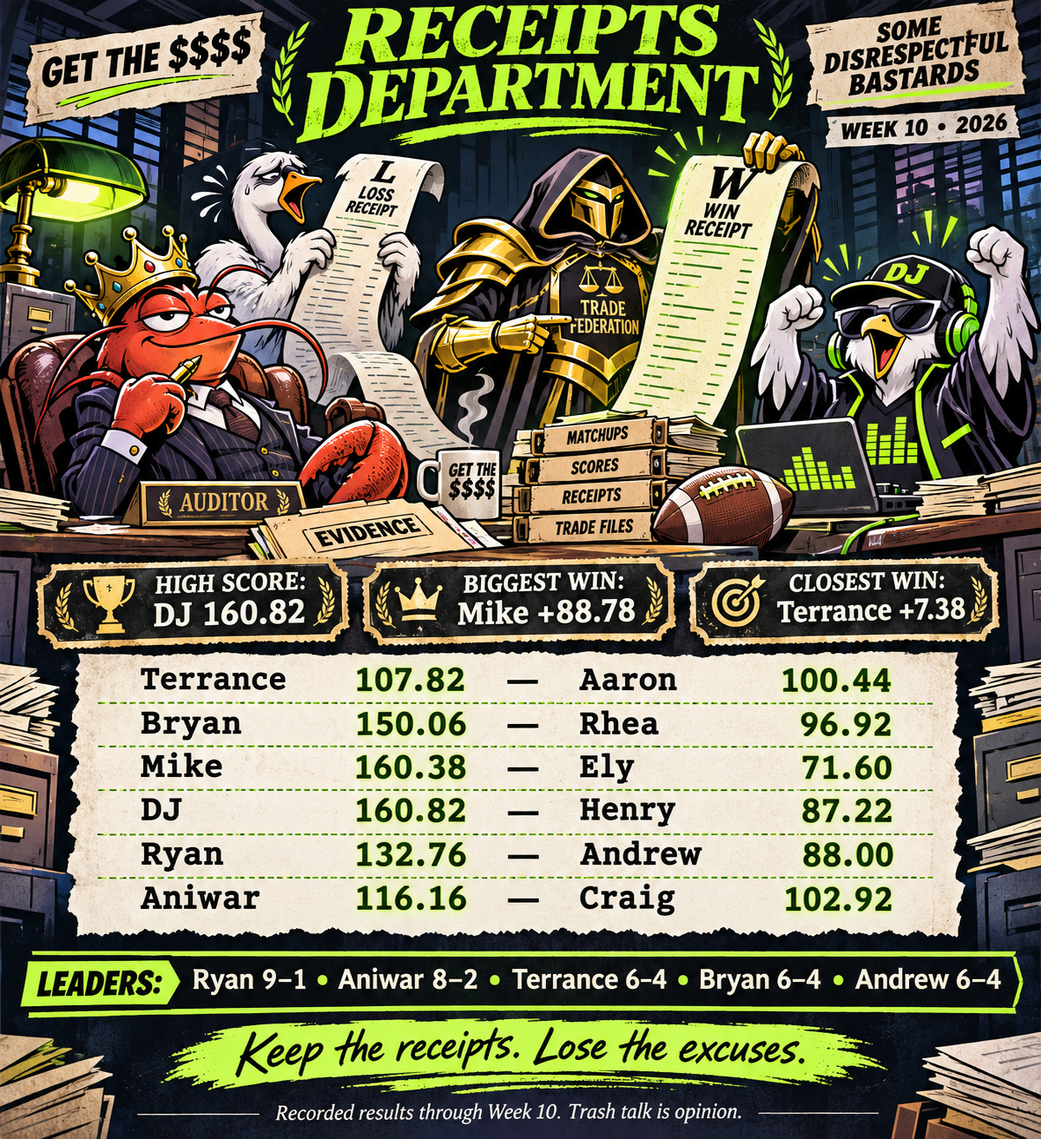
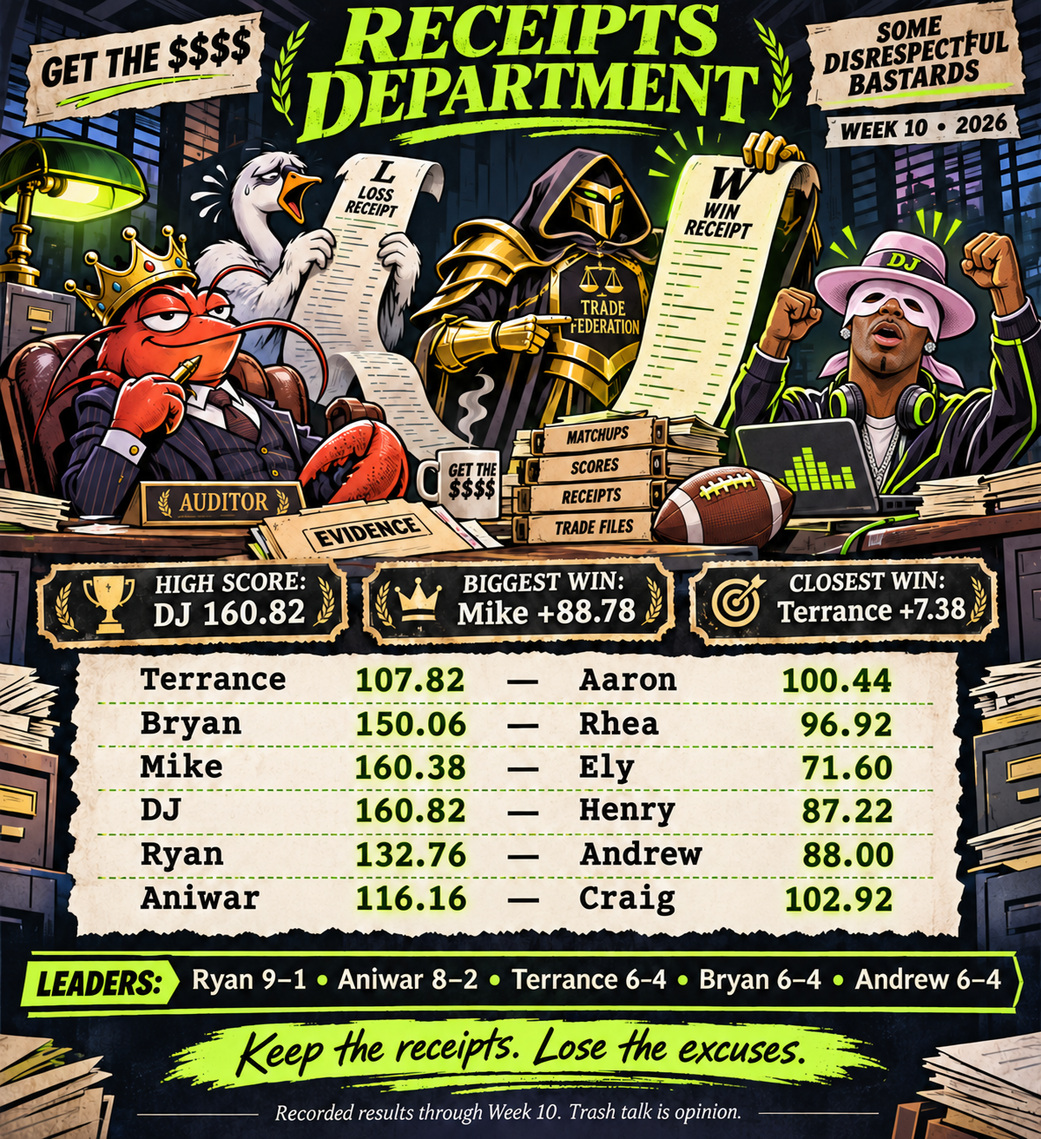
Update DJ likeness in Week 10 illustrated edition

diff --git a/recaps.html b/recaps.html
@@ -6,7 +6,7 @@
   <meta name="description" content="Weekly results, illustrated editions, power rankings, and transaction receipts from GET THE $$$$.">
   <meta property="og:title" content="GET THE $$$$ · Weekly Recaps">
   <meta property="og:description" content="Week 10 · Receipts Department. The scores. The stories. The evidence.">
-  <meta property="og:image" content="https://get-the-money-league.pages.dev/recap-week-10-2026.png">
+  <meta property="og:image" content="https://get-the-money-league.pages.dev/recap-week-10-2026.png?v=dj-mask-20261117">
   <meta property="og:type" content="website">
   <style>
     body { margin:0; background:#101820; color:#f4f6f8; font:16px/1.65 system-ui,sans-serif; }
@@ -59,7 +59,7 @@
   <p class="subtext">The scores. The stories. The evidence. Written recaps and illustrated covers, together.</p>
   <p id="load-status" class="subtext" role="status">Loading saved recaps…</p>
   <!-- SAVED-EDITION-START -->
-<section id="saved-recap-fallback"><p class="eyebrow">2026 · Week 10 · Saved written edition</p><h2>Receipts Department</h2><p>DJ Searcy posted the week&#x27;s high score of 160.82. The closest matchup finished with a 7.38-point margin; the biggest margin was 88.78.</p><p class="subtext">Workbook updated 2026-11-17 06:21 CST. Interactive selectors become available when the page scripts load.</p><h2>Weekly awards</h2><div class="scroll"><table><thead><tr><th scope="col">Award</th><th scope="col">Manager</th><th scope="col">Points</th><th scope="col">Details</th></tr></thead><tbody><tr><td>Best Manager 🔥</td><td>Henry Omehe</td><td>87.22</td><td>Henry started the perfect possible lineup: 87.22 points, as reported by Sleeper.</td></tr><tr><td>Worst Manager 🤔</td><td>Rhea Nelson</td><td>96.92</td><td>Rhea scored 77% of a perfect possible lineup of 126.10 points, as reported by Sleeper.</td></tr><tr><td>Biggest Blowout 😂</td><td>Mike Taylor</td><td>160.38</td><td>Mike beat Ely 160.38–71.60: 88.78 points, or 124.0% of the losing score.</td></tr><tr><td>Narrow Victory 😱</td><td>Terrance Green</td><td>107.82</td><td>Terrance beat Aaron 107.82–100.44: 7.38 points, or 7.3% of the losing score.</td></tr><tr><td>Highest Scorer 😎</td><td>DJ Searcy</td><td>160.82</td><td>DJ posted the highest team score of the week.</td></tr><tr><td>Lowest Scorer 💩</td><td>Ely Ibrahim</td><td>71.60</td><td>Ely posted the lowest team score of the week.</td></tr><tr><td>Overachiever 🤓</td><td>DJ Searcy</td><td>160.82</td><td>DJ exceeded Sleeper’s 89.35-point projection by 80% (+71.47 points).</td></tr><tr><td>Below Expectation 💀</td><td>Ely Ibrahim</td><td>71.60</td><td>Ely finished 32% below Sleeper’s 105.45-point projection (−33.85 points).</td></tr><tr><td>QB of the Week ⭐</td><td>Craig Lyons</td><td>45.42</td><td>Patrick Mahomes</td></tr><tr><td>RB of the Week ⭐</td><td>Henry Omehe</td><td>44.30</td><td>Christian McCaffrey</td></tr><tr><td>WR of the Week ⭐</td><td>DJ Searcy</td><td>38.00</td><td>George Pickens</td></tr><tr><td>TE of the Week ⭐</td><td>Mike Taylor</td><td>23.20</td><td>Isaiah Likely</td></tr><tr><td>DEF of the Week ⭐</td><td>Mike Taylor</td><td>24.00</td><td>Minnesota Vikings</td></tr><tr><td>QB Benchwarmer of the Week 👀</td><td>Craig Lyons</td><td>25.44</td><td>C.J. Stroud</td></tr><tr><td>RB Benchwarmer of the Week 👀</td><td>Rhea Nelson</td><td>19.40</td><td>Blake Corum</td></tr><tr><td>WR Benchwarmer of the Week 👀</td><td>Mike Taylor</td><td>13.86</td><td>Malik Washington</td></tr><tr><td>TE Benchwarmer of the Week 👀</td><td>Ely Ibrahim</td><td>3.80</td><td>Juwan Johnson</td></tr><tr><td>DEF Benchwarmer of the Week 👀</td><td>DJ Searcy</td><td>1.00</td><td>Dallas Cowboys</td></tr></tbody></table></div><h2>The scoreboard</h2><div class="scroll"><table><thead><tr><th scope="col">Manager</th><th scope="col">Score</th><th scope="col">Opponent</th><th scope="col">Score</th></tr></thead><tbody><tr><td>Terrance Green</td><td>107.82</td><td>Aaron Blank</td><td>100.44</td></tr><tr><td>Bryan Norman</td><td>150.06</td><td>Rhea Nelson</td><td>96.92</td></tr><tr><td>Mike Taylor</td><td>160.38</td><td>Ely Ibrahim</td><td>71.60</td></tr><tr><td>Henry Omehe</td><td>87.22</td><td>DJ Searcy</td><td>160.82</td></tr><tr><td>Ryan Nelson</td><td>132.76</td><td>Andrew Swanson</td><td>88.00</td></tr><tr><td>Craig Lyons</td><td>102.92</td><td>Aniwar Ibrahim</td><td>116.16</td></tr></tbody></table></div><h2>Standings watch</h2><div class="scroll"><table><thead><tr><th scope="col">Position</th><th scope="col">Manager</th><th scope="col">Record</th><th scope="col">Points For</th><th scope="col">Points Against</th></tr></thead><tbody><tr><td>1</td><td>Ryan Nelson</td><td>9–1–0</td><td>1272.10</td><td>973.04</td></tr><tr><td>2</td><td>Aniwar Ibrahim</td><td>8–2–0</td><td>1158.58</td><td>1013.82</td></tr><tr><td>3</td><td>Terrance Green</td><td>6–4–0</td><td>1106.76</td><td>1134.60</td></tr><tr><td>4</td><td>Bryan Norman</td><td>6–4–0</td><td>1105.50</td><td>1054.88</td></tr><tr><td>5</td><td>Andrew Swanson</td><td>6–4–0</td><td>1019.98</td><td>958.52</td></tr><tr><td>6</td><td>Mike Taylor</td><td>5–5–0</td><td>1235.88</td><td>1072.68</td></tr><tr><td>7</td><td>Aaron Blank</td><td>5–5–0</td><td>1091.22</td><td>1142.60</td></tr><tr><td>8</td><td>Rhea Nelson</td><td>4–6–0</td><td>1103.48</td><td>1259.78</td></tr><tr><td>9</td><td>DJ Searcy</td><td>4–6–0</td><td>955.74</td><td>1083.36</td></tr><tr><td>10</td><td>Henry Omehe</td><td>3–7–0</td><td>971.92</td><td>1076.92</td></tr><tr><td>11</td><td>Craig Lyons</td><td>2–8–0</td><td>1041.76</td><td>1180.30</td></tr><tr><td>12</td><td>Ely Ibrahim</td><td>2–8–0</td><td>1018.48</td><td>1130.90</td></tr></tbody></table></div><h2>Illustrated edition</h2><p class="subtext">Illustrated editions began with Week 7 of 2026.</p><figure><a href="./recap-week-10-2026.png"><img style="max-width:600px;width:100%;height:auto" src="./recap-week-10-2026.png" alt="Week 10 Receipts Department illustrated recap: league mascots in a sports auditing office, six verified matchups, DJ’s 160.82 high score, Mike’s 88.78-point biggest win, and Terrance’s 7.38-point closest win." loading="lazy"></a></figure><h2>Disrespectful Power Rankings</h2><p class="subtext">The Group Chat Edition · Ranked by season strength + recent form. Rankings are editorial, not official standings. Adapted from the supplied weekly write-up; statistics checked against the saved workbook recap.</p><div class="banter"><article><h3>01 · 400 DEGREEZ</h3><p><strong>THE LEAGUE LANDLORD</strong></p><p>Nine wins, five straight, and the most points in the league. Everybody else is managing a fantasy team; 400 DEGREEZ is collecting rent. At this point, your matchup notification is an eviction notice. The only thing colder than the competition is that 973.04 points-against total. Great team, comfortable schedule, and absolutely no reason to be humble. If this ends without a championship, the group chat is going to turn that 9-1 screenshot into a missing-person poster.</p></article><article><h3>02 · W&#x27;s in spite of Marv</h3><p><strong>MARV STILL GETS NO CREDIT</strong></p><p>Eight wins and three straight, yet the team name still sounds like an ongoing HR complaint. You beat Run CMC 116.16–102.92, which means the group chat has to tolerate another week of your victory lap. Second place is respectable, but 400 DEGREEZ is upstairs making noise and you still haven&#x27;t knocked on the door. Keep stacking wins. Marv is apparently the only person in the organization who isn&#x27;t getting a performance bonus.</p></article><article><h3>03 · The Trade Federation 🏆🏆</h3><p><strong>A .500 TEAM WITH CHAMPAGNE TASTE</strong></p><p>Second-most season points, a 160.38-point week, and somehow still sitting at 5-5. This is a luxury vehicle with the check-engine light permanently on. You destroyed Bi-Polar Boyz by 88.78, but beating that team right now is like winning a boxing match against a coat rack. The two trophies in the name are doing heavy public-relations work. Still, this offense earns the jump to No. 3. Nobody wants you in the playoffs, assuming you remember to qualify.</p></article><article><h3>04 · The Struggle is Real</h3><p><strong>THE STRUGGLE TOOK PTO</strong></p><p>A 150.06-point week is a terrible way to stay committed to the brand. You can&#x27;t keep calling it a struggle while handing out this much punishment. At 6-4, you&#x27;re finally looking like a problem instead of somebody explaining why the projections were wrong. One big week doesn&#x27;t make you royalty, but it does move you ahead of teams surviving on close calls and good fortune. For once, the only people struggling were the ones trying to keep up.</p></article><article><h3>05 · GreenMamba</h3><p><strong>THE GARDEN HOSE WITH FANGS</strong></p><p>Two straight wins, but this week&#x27;s venom was apparently watered down. Lowest score in a win and narrowest victory: two receipts that collectively mean &#x27;thank God for the opponent.&#x27; You edged Pukakke by 7.38 and walked out like you had conquered an empire. At 6-4, you&#x27;re dangerous enough to matter, but 1,134.60 points against versus 1,106.76 scored suggests the snake has been getting stepped on almost as often as it bites.</p></article><article><h3>06 · Son of a Swan</h3><p><strong>THE SWAN DIVE</strong></p><p>Two straight losses and an 88-point week. That isn&#x27;t graceful movement; that&#x27;s a bird hitting a sliding-glass door. Your 6-4 record looks solid until we notice the league-low 958.52 points against. Opponents have been treating your schedule like a wellness retreat, and you&#x27;re still finding ways to lose. You have the record of a contender and the scoring output of somebody who drafts based on commercials. The cushion is shrinking. Start flapping.</p></article><article><h3>07 · Free R Kelly</h3><p><strong>ONE WEEK OF WITNESS PROTECTION</strong></p><p>League-high 160.82 and a 73.60-point win. For one week, this roster looked like it had stolen the answer key. Suddenly the team with the fewest season points wants a seat at the grown-ups&#x27; table. Here&#x27;s the problem: 160.82 of your 955.74 points arrived this week. We respect the eruption, but one good Sunday doesn&#x27;t erase nine weeks of loading-screen football. Do it again before printing playoff shirts.</p></article><article><h3>08 · Pukakke</h3><p><strong>THE HUMAN COIN FLIP</strong></p><p>Five wins, five losses, and a Week 10 performance that barely cleared the century mark. You lost to the lowest-scoring winner, which is fantasy football&#x27;s version of getting fired on your day off. GreenMamba scored 107.82 and still sent you home. Your team name makes an entrance; your roster quietly asks where to park. At .500, you&#x27;re neither scary nor safely eliminated. You&#x27;re just standing in the playoff doorway making everybody walk around you.</p></article><article><h3>09 · Catalina Wine Mixer</h3><p><strong>ALL WINE, NO MIXER</strong></p><p>A 96.92-point week while The Struggle is Real dropped 150.06. Your starters hosted a networking event for disappointment. To be fair, opponents have dumped a league-high 1,259.78 on you. That&#x27;s brutal luck. But this week&#x27;s 53.14-point loss was not exactly a photo finish. You&#x27;re getting jumped outside and then coming home to trip over your own furniture. At 4-6, the wine needs to become a lot stronger.</p></article><article><h3>10 · The Hurts Locker</h3><p><strong>PERFECTLY ORGANIZED DISASTER</strong></p><p>An 87.22-point week, a 73.60-point loss, and a front-row seat to DJ&#x27;s 160.82 eruption. Four straight losses, 3-7, and the group chat has run out of sympathetic emojis. This is a beautifully organized garage sale where every item is broken. The Hurts Locker is living up to the name with a level of commitment nobody asked for. Congratulations on squeezing every last drop out of an empty bottle.</p></article><article><h3>11 · Run CMC</h3><p><strong>RUN CMC, WALK HOME</strong></p><p>You scored 102.92 and still lost by 13.24. Highest points in a loss sounds nicer than &#x27;best seat on the sinking ship.&#x27; The rest of the league gets a win column; you get a participation receipt. At 2-8, even a triple-digit week comes with a return label. The team name says Run CMC, but this playoff chase is moving like people who wandered onto the field looking for parking validation.</p></article><article><h3>12 · Bi-Polar Boyz</h3><p><strong>SAME OLD PAIN</strong></p><p>Six straight losses. Seventy-one point six. An 88.78-point beating. The Trade Federation could have spotted you 80 and still won. The league-low score wasn&#x27;t a close call; it was a full-team commitment to disappointment. At 2-8, the group chat has more material than your lineup had points. The throne is a folding chair outside the championship bracket.</p></article></div><h2>Transactions</h2><p class="subtext">2026-11-10 through 2026-11-16 · Central time · Saved collection 2026-11-17 06:48 CST.</p><div class="scroll"><table><thead><tr><th scope="col">Completed at (Central)</th><th scope="col">Manager</th><th scope="col">Transaction</th><th scope="col">Added</th><th scope="col">Dropped</th><th scope="col">FAAB</th></tr></thead><tbody><tr><td>2026-11-10 05:13:46</td><td>Ely Ibrahim</td><td>Drop only</td><td>—</td><td>Michael Wilson</td><td>—</td></tr><tr><td>2026-11-11 02:13:12</td><td>DJ Searcy</td><td>Waiver</td><td>Justice Hill</td><td>Kimani Vidal</td><td>3</td></tr><tr><td>2026-11-11 02:13:12</td><td>Henry Omehe</td><td>Waiver</td><td>Fernando Mendoza</td><td>Jacoby Brissett</td><td>28</td></tr><tr><td>2026-11-11 02:13:12</td><td>Terrance Green</td><td>Waiver</td><td>Baltimore Ravens</td><td>Detroit Lions</td><td>2</td></tr><tr><td>2026-11-11 02:13:12</td><td>Bryan Norman</td><td>Waiver</td><td>Konata Mumpfield</td><td>Kansas City Chiefs</td><td>8</td></tr><tr><td>2026-11-11 02:13:12</td><td>Bryan Norman</td><td>Waiver</td><td>Reggie Virgil</td><td>Kyler Murray</td><td>3</td></tr><tr><td>2026-11-11 02:13:12</td><td>Rhea Nelson</td><td>Waiver</td><td>Geno Smith</td><td>Mike Washington Jr.</td><td>3</td></tr><tr><td>2026-11-11 02:13:12</td><td>Rhea Nelson</td><td>Waiver</td><td>Indianapolis Colts</td><td>New York Giants</td><td>3</td></tr><tr><td>2026-11-11 02:13:12</td><td>Aaron Blank</td><td>Waiver</td><td>Green Bay Packers</td><td>Houston Texans</td><td>2</td></tr><tr><td>2026-11-11 02:13:12</td><td>Mike Taylor</td><td>Waiver</td><td>Tank Dell</td><td>Chris Godwin Jr.</td><td>0</td></tr><tr><td>2026-11-11 06:34:58</td><td>Aniwar Ibrahim</td><td>Free-agent pickup</td><td>Tutu Atwell</td><td>Sione Vaki</td><td>—</td></tr><tr><td>2026-11-11 06:35:17</td><td>Craig Lyons</td><td>Free-agent pickup</td><td>Darren Waller</td><td>Jake Ferguson</td><td>—</td></tr><tr><td>2026-11-11 10:01:50</td><td>DJ Searcy</td><td>Free-agent pickup</td><td>Darnell Washington</td><td>Atlanta Falcons</td><td>—</td></tr><tr><td>2026-11-12 01:13:14</td><td>Ely Ibrahim</td><td>Waiver</td><td>Jacoby Brissett</td><td>Malik Willis</td><td>5</td></tr><tr><td>2026-11-12 01:13:14</td><td>Ryan Nelson</td><td>Waiver</td><td>Houston Texans</td><td>New Orleans Saints</td><td>12</td></tr><tr><td>2026-11-12 02:07:45</td><td>Aniwar Ibrahim</td><td>Free-agent pickup</td><td>Kaleb Johnson</td><td>Malachi Fields</td><td>—</td></tr><tr><td>2026-11-12 09:30:31</td><td>Andrew Swanson</td><td>Free-agent pickup</td><td>Kimani Vidal</td><td>Zonovan Knight</td><td>—</td></tr><tr><td>2026-11-14 18:38:37</td><td>Mike Taylor</td><td>Drop only</td><td>—</td><td>Devaughn Vele</td><td>—</td></tr></tbody></table></div></section>
+<section id="saved-recap-fallback"><p class="eyebrow">2026 · Week 10 · Saved written edition</p><h2>Receipts Department</h2><p>DJ Searcy posted the week&#x27;s high score of 160.82. The closest matchup finished with a 7.38-point margin; the biggest margin was 88.78.</p><p class="subtext">Workbook updated 2026-11-17 06:21 CST. Interactive selectors become available when the page scripts load.</p><h2>Weekly awards</h2><div class="scroll"><table><thead><tr><th scope="col">Award</th><th scope="col">Manager</th><th scope="col">Points</th><th scope="col">Details</th></tr></thead><tbody><tr><td>Best Manager 🔥</td><td>Henry Omehe</td><td>87.22</td><td>Henry started the perfect possible lineup: 87.22 points, as reported by Sleeper.</td></tr><tr><td>Worst Manager 🤔</td><td>Rhea Nelson</td><td>96.92</td><td>Rhea scored 77% of a perfect possible lineup of 126.10 points, as reported by Sleeper.</td></tr><tr><td>Biggest Blowout 😂</td><td>Mike Taylor</td><td>160.38</td><td>Mike beat Ely 160.38–71.60: 88.78 points, or 124.0% of the losing score.</td></tr><tr><td>Narrow Victory 😱</td><td>Terrance Green</td><td>107.82</td><td>Terrance beat Aaron 107.82–100.44: 7.38 points, or 7.3% of the losing score.</td></tr><tr><td>Highest Scorer 😎</td><td>DJ Searcy</td><td>160.82</td><td>DJ posted the highest team score of the week.</td></tr><tr><td>Lowest Scorer 💩</td><td>Ely Ibrahim</td><td>71.60</td><td>Ely posted the lowest team score of the week.</td></tr><tr><td>Overachiever 🤓</td><td>DJ Searcy</td><td>160.82</td><td>DJ exceeded Sleeper’s 89.35-point projection by 80% (+71.47 points).</td></tr><tr><td>Below Expectation 💀</td><td>Ely Ibrahim</td><td>71.60</td><td>Ely finished 32% below Sleeper’s 105.45-point projection (−33.85 points).</td></tr><tr><td>QB of the Week ⭐</td><td>Craig Lyons</td><td>45.42</td><td>Patrick Mahomes</td></tr><tr><td>RB of the Week ⭐</td><td>Henry Omehe</td><td>44.30</td><td>Christian McCaffrey</td></tr><tr><td>WR of the Week ⭐</td><td>DJ Searcy</td><td>38.00</td><td>George Pickens</td></tr><tr><td>TE of the Week ⭐</td><td>Mike Taylor</td><td>23.20</td><td>Isaiah Likely</td></tr><tr><td>DEF of the Week ⭐</td><td>Mike Taylor</td><td>24.00</td><td>Minnesota Vikings</td></tr><tr><td>QB Benchwarmer of the Week 👀</td><td>Craig Lyons</td><td>25.44</td><td>C.J. Stroud</td></tr><tr><td>RB Benchwarmer of the Week 👀</td><td>Rhea Nelson</td><td>19.40</td><td>Blake Corum</td></tr><tr><td>WR Benchwarmer of the Week 👀</td><td>Mike Taylor</td><td>13.86</td><td>Malik Washington</td></tr><tr><td>TE Benchwarmer of the Week 👀</td><td>Ely Ibrahim</td><td>3.80</td><td>Juwan Johnson</td></tr><tr><td>DEF Benchwarmer of the Week 👀</td><td>DJ Searcy</td><td>1.00</td><td>Dallas Cowboys</td></tr></tbody></table></div><h2>The scoreboard</h2><div class="scroll"><table><thead><tr><th scope="col">Manager</th><th scope="col">Score</th><th scope="col">Opponent</th><th scope="col">Score</th></tr></thead><tbody><tr><td>Terrance Green</td><td>107.82</td><td>Aaron Blank</td><td>100.44</td></tr><tr><td>Bryan Norman</td><td>150.06</td><td>Rhea Nelson</td><td>96.92</td></tr><tr><td>Mike Taylor</td><td>160.38</td><td>Ely Ibrahim</td><td>71.60</td></tr><tr><td>Henry Omehe</td><td>87.22</td><td>DJ Searcy</td><td>160.82</td></tr><tr><td>Ryan Nelson</td><td>132.76</td><td>Andrew Swanson</td><td>88.00</td></tr><tr><td>Craig Lyons</td><td>102.92</td><td>Aniwar Ibrahim</td><td>116.16</td></tr></tbody></table></div><h2>Standings watch</h2><div class="scroll"><table><thead><tr><th scope="col">Position</th><th scope="col">Manager</th><th scope="col">Record</th><th scope="col">Points For</th><th scope="col">Points Against</th></tr></thead><tbody><tr><td>1</td><td>Ryan Nelson</td><td>9–1–0</td><td>1272.10</td><td>973.04</td></tr><tr><td>2</td><td>Aniwar Ibrahim</td><td>8–2–0</td><td>1158.58</td><td>1013.82</td></tr><tr><td>3</td><td>Terrance Green</td><td>6–4–0</td><td>1106.76</td><td>1134.60</td></tr><tr><td>4</td><td>Bryan Norman</td><td>6–4–0</td><td>1105.50</td><td>1054.88</td></tr><tr><td>5</td><td>Andrew Swanson</td><td>6–4–0</td><td>1019.98</td><td>958.52</td></tr><tr><td>6</td><td>Mike Taylor</td><td>5–5–0</td><td>1235.88</td><td>1072.68</td></tr><tr><td>7</td><td>Aaron Blank</td><td>5–5–0</td><td>1091.22</td><td>1142.60</td></tr><tr><td>8</td><td>Rhea Nelson</td><td>4–6–0</td><td>1103.48</td><td>1259.78</td></tr><tr><td>9</td><td>DJ Searcy</td><td>4–6–0</td><td>955.74</td><td>1083.36</td></tr><tr><td>10</td><td>Henry Omehe</td><td>3–7–0</td><td>971.92</td><td>1076.92</td></tr><tr><td>11</td><td>Craig Lyons</td><td>2–8–0</td><td>1041.76</td><td>1180.30</td></tr><tr><td>12</td><td>Ely Ibrahim</td><td>2–8–0</td><td>1018.48</td><td>1130.90</td></tr></tbody></table></div><h2>Illustrated edition</h2><p class="subtext">Illustrated editions began with Week 7 of 2026.</p><figure><a href="./recap-week-10-2026.png?v=Week%2010%20Receipts%20Department%3A%20DJ%20as%20R.%20Kelly%20in%20a%20pale%20Zorro-style%20mask%20and%20pink%20hat%3B%20the%20six%20verified%20matchups%20and%20weekly%20awards%20remain%20unchanged."><img style="max-width:600px;width:100%;height:auto" src="./recap-week-10-2026.png?v=Week%2010%20Receipts%20Department%3A%20DJ%20as%20R.%20Kelly%20in%20a%20pale%20Zorro-style%20mask%20and%20pink%20hat%3B%20the%20six%20verified%20matchups%20and%20weekly%20awards%20remain%20unchanged." alt="Week 10 Receipts Department: DJ as R. Kelly in a pale Zorro-style mask and pink hat; the six verified matchups and weekly awards remain unchanged." loading="lazy"></a></figure><h2>Disrespectful Power Rankings</h2><p class="subtext">The Group Chat Edition · Ranked by season strength + recent form. Rankings are editorial, not official standings. Adapted from the supplied weekly write-up; statistics checked against the saved workbook recap.</p><div class="banter"><article><h3>01 · 400 DEGREEZ</h3><p><strong>THE LEAGUE LANDLORD</strong></p><p>Nine wins, five straight, and the most points in the league. Everybody else is managing a fantasy team; 400 DEGREEZ is collecting rent. At this point, your matchup notification is an eviction notice. The only thing colder than the competition is that 973.04 points-against total. Great team, comfortable schedule, and absolutely no reason to be humble. If this ends without a championship, the group chat is going to turn that 9-1 screenshot into a missing-person poster.</p></article><article><h3>02 · W&#x27;s in spite of Marv</h3><p><strong>MARV STILL GETS NO CREDIT</strong></p><p>Eight wins and three straight, yet the team name still sounds like an ongoing HR complaint. You beat Run CMC 116.16–102.92, which means the group chat has to tolerate another week of your victory lap. Second place is respectable, but 400 DEGREEZ is upstairs making noise and you still haven&#x27;t knocked on the door. Keep stacking wins. Marv is apparently the only person in the organization who isn&#x27;t getting a performance bonus.</p></article><article><h3>03 · The Trade Federation 🏆🏆</h3><p><strong>A .500 TEAM WITH CHAMPAGNE TASTE</strong></p><p>Second-most season points, a 160.38-point week, and somehow still sitting at 5-5. This is a luxury vehicle with the check-engine light permanently on. You destroyed Bi-Polar Boyz by 88.78, but beating that team right now is like winning a boxing match against a coat rack. The two trophies in the name are doing heavy public-relations work. Still, this offense earns the jump to No. 3. Nobody wants you in the playoffs, assuming you remember to qualify.</p></article><article><h3>04 · The Struggle is Real</h3><p><strong>THE STRUGGLE TOOK PTO</strong></p><p>A 150.06-point week is a terrible way to stay committed to the brand. You can&#x27;t keep calling it a struggle while handing out this much punishment. At 6-4, you&#x27;re finally looking like a problem instead of somebody explaining why the projections were wrong. One big week doesn&#x27;t make you royalty, but it does move you ahead of teams surviving on close calls and good fortune. For once, the only people struggling were the ones trying to keep up.</p></article><article><h3>05 · GreenMamba</h3><p><strong>THE GARDEN HOSE WITH FANGS</strong></p><p>Two straight wins, but this week&#x27;s venom was apparently watered down. Lowest score in a win and narrowest victory: two receipts that collectively mean &#x27;thank God for the opponent.&#x27; You edged Pukakke by 7.38 and walked out like you had conquered an empire. At 6-4, you&#x27;re dangerous enough to matter, but 1,134.60 points against versus 1,106.76 scored suggests the snake has been getting stepped on almost as often as it bites.</p></article><article><h3>06 · Son of a Swan</h3><p><strong>THE SWAN DIVE</strong></p><p>Two straight losses and an 88-point week. That isn&#x27;t graceful movement; that&#x27;s a bird hitting a sliding-glass door. Your 6-4 record looks solid until we notice the league-low 958.52 points against. Opponents have been treating your schedule like a wellness retreat, and you&#x27;re still finding ways to lose. You have the record of a contender and the scoring output of somebody who drafts based on commercials. The cushion is shrinking. Start flapping.</p></article><article><h3>07 · Free R Kelly</h3><p><strong>ONE WEEK OF WITNESS PROTECTION</strong></p><p>League-high 160.82 and a 73.60-point win. For one week, this roster looked like it had stolen the answer key. Suddenly the team with the fewest season points wants a seat at the grown-ups&#x27; table. Here&#x27;s the problem: 160.82 of your 955.74 points arrived this week. We respect the eruption, but one good Sunday doesn&#x27;t erase nine weeks of loading-screen football. Do it again before printing playoff shirts.</p></article><article><h3>08 · Pukakke</h3><p><strong>THE HUMAN COIN FLIP</strong></p><p>Five wins, five losses, and a Week 10 performance that barely cleared the century mark. You lost to the lowest-scoring winner, which is fantasy football&#x27;s version of getting fired on your day off. GreenMamba scored 107.82 and still sent you home. Your team name makes an entrance; your roster quietly asks where to park. At .500, you&#x27;re neither scary nor safely eliminated. You&#x27;re just standing in the playoff doorway making everybody walk around you.</p></article><article><h3>09 · Catalina Wine Mixer</h3><p><strong>ALL WINE, NO MIXER</strong></p><p>A 96.92-point week while The Struggle is Real dropped 150.06. Your starters hosted a networking event for disappointment. To be fair, opponents have dumped a league-high 1,259.78 on you. That&#x27;s brutal luck. But this week&#x27;s 53.14-point loss was not exactly a photo finish. You&#x27;re getting jumped outside and then coming home to trip over your own furniture. At 4-6, the wine needs to become a lot stronger.</p></article><article><h3>10 · The Hurts Locker</h3><p><strong>PERFECTLY ORGANIZED DISASTER</strong></p><p>An 87.22-point week, a 73.60-point loss, and a front-row seat to DJ&#x27;s 160.82 eruption. Four straight losses, 3-7, and the group chat has run out of sympathetic emojis. This is a beautifully organized garage sale where every item is broken. The Hurts Locker is living up to the name with a level of commitment nobody asked for. Congratulations on squeezing every last drop out of an empty bottle.</p></article><article><h3>11 · Run CMC</h3><p><strong>RUN CMC, WALK HOME</strong></p><p>You scored 102.92 and still lost by 13.24. Highest points in a loss sounds nicer than &#x27;best seat on the sinking ship.&#x27; The rest of the league gets a win column; you get a participation receipt. At 2-8, even a triple-digit week comes with a return label. The team name says Run CMC, but this playoff chase is moving like people who wandered onto the field looking for parking validation.</p></article><article><h3>12 · Bi-Polar Boyz</h3><p><strong>SAME OLD PAIN</strong></p><p>Six straight losses. Seventy-one point six. An 88.78-point beating. The Trade Federation could have spotted you 80 and still won. The league-low score wasn&#x27;t a close call; it was a full-team commitment to disappointment. At 2-8, the group chat has more material than your lineup had points. The throne is a folding chair outside the championship bracket.</p></article></div><h2>Transactions</h2><p class="subtext">2026-11-10 through 2026-11-16 · Central time · Saved collection 2026-11-17 06:48 CST.</p><div class="scroll"><table><thead><tr><th scope="col">Completed at (Central)</th><th scope="col">Manager</th><th scope="col">Transaction</th><th scope="col">Added</th><th scope="col">Dropped</th><th scope="col">FAAB</th></tr></thead><tbody><tr><td>2026-11-10 05:13:46</td><td>Ely Ibrahim</td><td>Drop only</td><td>—</td><td>Michael Wilson</td><td>—</td></tr><tr><td>2026-11-11 02:13:12</td><td>DJ Searcy</td><td>Waiver</td><td>Justice Hill</td><td>Kimani Vidal</td><td>3</td></tr><tr><td>2026-11-11 02:13:12</td><td>Henry Omehe</td><td>Waiver</td><td>Fernando Mendoza</td><td>Jacoby Brissett</td><td>28</td></tr><tr><td>2026-11-11 02:13:12</td><td>Terrance Green</td><td>Waiver</td><td>Baltimore Ravens</td><td>Detroit Lions</td><td>2</td></tr><tr><td>2026-11-11 02:13:12</td><td>Bryan Norman</td><td>Waiver</td><td>Konata Mumpfield</td><td>Kansas City Chiefs</td><td>8</td></tr><tr><td>2026-11-11 02:13:12</td><td>Bryan Norman</td><td>Waiver</td><td>Reggie Virgil</td><td>Kyler Murray</td><td>3</td></tr><tr><td>2026-11-11 02:13:12</td><td>Rhea Nelson</td><td>Waiver</td><td>Geno Smith</td><td>Mike Washington Jr.</td><td>3</td></tr><tr><td>2026-11-11 02:13:12</td><td>Rhea Nelson</td><td>Waiver</td><td>Indianapolis Colts</td><td>New York Giants</td><td>3</td></tr><tr><td>2026-11-11 02:13:12</td><td>Aaron Blank</td><td>Waiver</td><td>Green Bay Packers</td><td>Houston Texans</td><td>2</td></tr><tr><td>2026-11-11 02:13:12</td><td>Mike Taylor</td><td>Waiver</td><td>Tank Dell</td><td>Chris Godwin Jr.</td><td>0</td></tr><tr><td>2026-11-11 06:34:58</td><td>Aniwar Ibrahim</td><td>Free-agent pickup</td><td>Tutu Atwell</td><td>Sione Vaki</td><td>—</td></tr><tr><td>2026-11-11 06:35:17</td><td>Craig Lyons</td><td>Free-agent pickup</td><td>Darren Waller</td><td>Jake Ferguson</td><td>—</td></tr><tr><td>2026-11-11 10:01:50</td><td>DJ Searcy</td><td>Free-agent pickup</td><td>Darnell Washington</td><td>Atlanta Falcons</td><td>—</td></tr><tr><td>2026-11-12 01:13:14</td><td>Ely Ibrahim</td><td>Waiver</td><td>Jacoby Brissett</td><td>Malik Willis</td><td>5</td></tr><tr><td>2026-11-12 01:13:14</td><td>Ryan Nelson</td><td>Waiver</td><td>Houston Texans</td><td>New Orleans Saints</td><td>12</td></tr><tr><td>2026-11-12 02:07:45</td><td>Aniwar Ibrahim</td><td>Free-agent pickup</td><td>Kaleb Johnson</td><td>Malachi Fields</td><td>—</td></tr><tr><td>2026-11-12 09:30:31</td><td>Andrew Swanson</td><td>Free-agent pickup</td><td>Kimani Vidal</td><td>Zonovan Knight</td><td>—</td></tr><tr><td>2026-11-14 18:38:37</td><td>Mike Taylor</td><td>Drop only</td><td>—</td><td>Devaughn Vele</td><td>—</td></tr></tbody></table></div></section>
   <!-- SAVED-EDITION-END -->
   <div id="recap-content" hidden>
     <div class="archive-controls">

diff --git a/index.html b/index.html
@@ -106,7 +106,7 @@ a:focus-visible {
       <div class="card"><h3>Weekly Recaps</h3><p><a href="./recaps.html">Explore weekly results and illustrated editions</a></p></div>
     </div>
     <!-- THIS-WEEK-START -->
-<section class="this-week" id="this-week" aria-label="This week in the league"><div><p class="eyebrow">THIS WEEK</p><p data-week-label>2026 · Week 10</p><h2 data-headline>Receipts Department</h2><p data-story>DJ Searcy posted the week&#x27;s high score of 160.82. The closest matchup finished with a 7.38-point margin; the biggest margin was 88.78.</p><p><a href="./recaps.html?year=2026&amp;week=10">Read this week’s recap</a></p></div><img src="./recap-week-10-2026.png" alt="Week 10 Receipts Department illustrated recap: league mascots in a sports auditing office, six verified matchups, DJ’s 160.82 high score, Mike’s 88.78-point biggest win, and Terrance’s 7.38-point closest win." loading="lazy"></section>
+<section class="this-week" id="this-week" aria-label="This week in the league"><div><p class="eyebrow">THIS WEEK</p><p data-week-label>2026 · Week 10</p><h2 data-headline>Receipts Department</h2><p data-story>DJ Searcy posted the week&#x27;s high score of 160.82. The closest matchup finished with a 7.38-point margin; the biggest margin was 88.78.</p><p><a href="./recaps.html?year=2026&amp;week=10">Read this week’s recap</a></p></div><img src="./recap-week-10-2026.png?v=Week%2010%20Receipts%20Department%3A%20DJ%20as%20R.%20Kelly%20in%20a%20pale%20Zorro-style%20mask%20and%20pink%20hat%3B%20the%20six%20verified%20matchups%20and%20weekly%20awards%20remain%20unchanged." alt="Week 10 Receipts Department: DJ as R. Kelly in a pale Zorro-style mask and pink hat; the six verified matchups and weekly awards remain unchanged." loading="lazy"></section>
     <!-- THIS-WEEK-END -->
   </main>
 </body>

diff --git a/recaps.js b/recaps.js
@@ -89,7 +89,7 @@ async function loadRecaps() {
       const notes=document.createDocumentFragment();
       for(const note of r.artworkNotes??[]){const p=document.createElement('p');p.textContent=note;notes.appendChild(p)}
       get('art-corrections').replaceChildren(notes);get('art-corrections').hidden=!(r.artworkNotes?.length);
-      if(r.artwork){get('artwork').src=`./${r.artwork}`;get('artwork').alt=r.artworkAlt;get('art-link').href=`./${r.artwork}`;}
+      if(r.artwork){const artworkURL=`./${r.artwork}?v=${encodeURIComponent(r.artworkAlt)}`;get('artwork').src=artworkURL;get('artwork').alt=r.artworkAlt;get('art-link').href=artworkURL;}
     }
     get('artwork').addEventListener('error',()=>{get('art-figure').hidden=true;get('art-unavailable').hidden=false;get('art-unavailable').textContent='Artwork could not be loaded. The written recap and scoreboard remain available.'});
     yearSelect.addEventListener('change',()=>selectYear());select.addEventListener('change',render);selectYear(initial.week);

diff --git a/home-recap.js b/home-recap.js
@@ -7,7 +7,7 @@ async function showLatestRecap(){
     root.querySelector('[data-headline]').textContent=latest.headline;
     root.querySelector('[data-story]').textContent=latest.story;
     root.querySelector('a').href=`./recaps.html?year=${latest.season}&week=${latest.week}`;
-    const image=root.querySelector('img');image.hidden=!latest.artwork;if(latest.artwork){image.src='./'+latest.artwork;image.alt=latest.artworkAlt;}
+    const image=root.querySelector('img');image.hidden=!latest.artwork;if(latest.artwork){image.src='./'+latest.artwork+'?v='+encodeURIComponent(latest.artworkAlt);image.alt=latest.artworkAlt;}
   }catch(error){/* The saved homepage edition remains readable. */}
 }
 showLatestRecap();

diff --git a/scripts/build-recap-fallback.py b/scripts/build-recap-fallback.py
@@ -2,6 +2,7 @@
 import json,re
 from pathlib import Path
 from html import escape
+from urllib.parse import quote
 
 ROOT=Path(__file__).resolve().parents[1]
 def jsdata(name):
@@ -9,6 +10,7 @@ def jsdata(name):
 def table(headers,rows):
     return '<div class="scroll"><table><thead><tr>'+''.join('<th scope="col">'+escape(str(h))+'</th>' for h in headers)+'</tr></thead><tbody>'+''.join('<tr>'+''.join('<td>'+escape(str(v))+'</td>' for v in row)+'</tr>' for row in rows)+'</tbody></table></div>'
 data=json.loads((ROOT/'recaps.json').read_text());recap=max(data['recaps'],key=lambda r:(r['season'],r['week']))
+art_url=(recap['artwork']+'?v='+quote(recap['artworkAlt'] or '',safe='')) if recap['artwork'] else 'league-crest.png'
 year,week=recap['season'],recap['week'];key=f'{year}-{week}';names={m['id']:m['name'] for m in data['managers']}
 editorial=jsdata('recap-editorials.js').get(key)
 awards=jsdata('recap-sleeper-awards.js').get(key,[])
@@ -17,7 +19,7 @@ html=f'<section id="saved-recap-fallback"><p class="eyebrow">{year} · Week {wee
 if awards:html+='<h2>Weekly awards</h2>'+table(['Award','Manager','Points','Details'],[[a['title'],names[a['managerId']],f'{a["points"]:.2f}',a['description']] for a in awards])
 html+='<h2>The scoreboard</h2>'+table(['Manager','Score','Opponent','Score'],[[names[g['managerA']],f'{g["scoreA"]:.2f}',names[g['managerB']],f'{g["scoreB"]:.2f}'] for g in recap['games']])
 html+='<h2>Standings watch</h2>'+table(['Position','Manager','Record','Points For','Points Against'],[[t['rank'],t['manager'],f'{t["wins"]}–{t["losses"]}–{t["ties"]}',f'{t["pointsFor"]:.2f}',f'{t["pointsAgainst"]:.2f}'] for t in recap['standings']])
-if recap['artwork']:html+='<h2>Illustrated edition</h2><p class="subtext">Illustrated editions began with Week 7 of 2026.</p><figure><a href="./'+escape(recap['artwork'])+'"><img style="max-width:600px;width:100%;height:auto" src="./'+escape(recap['artwork'])+'" alt="'+escape(recap['artworkAlt'])+'" loading="lazy"></a></figure>'
+if recap['artwork']:html+='<h2>Illustrated edition</h2><p class="subtext">Illustrated editions began with Week 7 of 2026.</p><figure><a href="./'+escape(art_url)+'"><img style="max-width:600px;width:100%;height:auto" src="./'+escape(art_url)+'" alt="'+escape(recap['artworkAlt'])+'" loading="lazy"></a></figure>'
 if editorial:
     html+='<h2>'+escape(editorial['title'])+'</h2><p class="subtext">'+escape(editorial['subtitle'])+'</p><div class="banter">'
     teams={t['managerId']:t for t in recap['standings']}
@@ -29,6 +31,6 @@ if transactions:
     html+=table(['Completed at (Central)','Manager','Transaction','Added','Dropped','FAAB'],[[m['timestamp'],m['manager'],m['type'],m['added'] or '—',m['dropped'] or '—',m['bid'] if m['bid'] is not None else '—'] for m in transactions['moves']])
 html+='</section>'
 page=ROOT/'recaps.html';text=page.read_text();text=re.sub(r'<!-- SAVED-EDITION-START -->.*?<!-- SAVED-EDITION-END -->','<!-- SAVED-EDITION-START -->\n'+html+'\n  <!-- SAVED-EDITION-END -->',text,flags=re.S);page.write_text(text)
-home=ROOT/'index.html';tile=f'''<section class="this-week" id="this-week" aria-label="This week in the league"><div><p class="eyebrow">THIS WEEK</p><p data-week-label>{year} · Week {week}</p><h2 data-headline>{escape(recap['headline'])}</h2><p data-story>{escape(recap['story'])}</p><p><a href="./recaps.html?year={year}&amp;week={week}">Read this week’s recap</a></p></div><img src="./{escape(recap['artwork'] or 'league-crest.png')}" alt="{escape(recap['artworkAlt'] or 'League crest')}" loading="lazy"></section>'''
+home=ROOT/'index.html';tile=f'''<section class="this-week" id="this-week" aria-label="This week in the league"><div><p class="eyebrow">THIS WEEK</p><p data-week-label>{year} · Week {week}</p><h2 data-headline>{escape(recap['headline'])}</h2><p data-story>{escape(recap['story'])}</p><p><a href="./recaps.html?year={year}&amp;week={week}">Read this week’s recap</a></p></div><img src="./{escape(art_url)}" alt="{escape(recap['artworkAlt'] or 'League crest')}" loading="lazy"></section>'''
 home.write_text(re.sub(r'<!-- THIS-WEEK-START -->.*?<!-- THIS-WEEK-END -->','<!-- THIS-WEEK-START -->\n'+tile+'\n    <!-- THIS-WEEK-END -->',home.read_text(),flags=re.S))
 print(f'Built saved {year} Week {week} fallback and homepage feature.')
